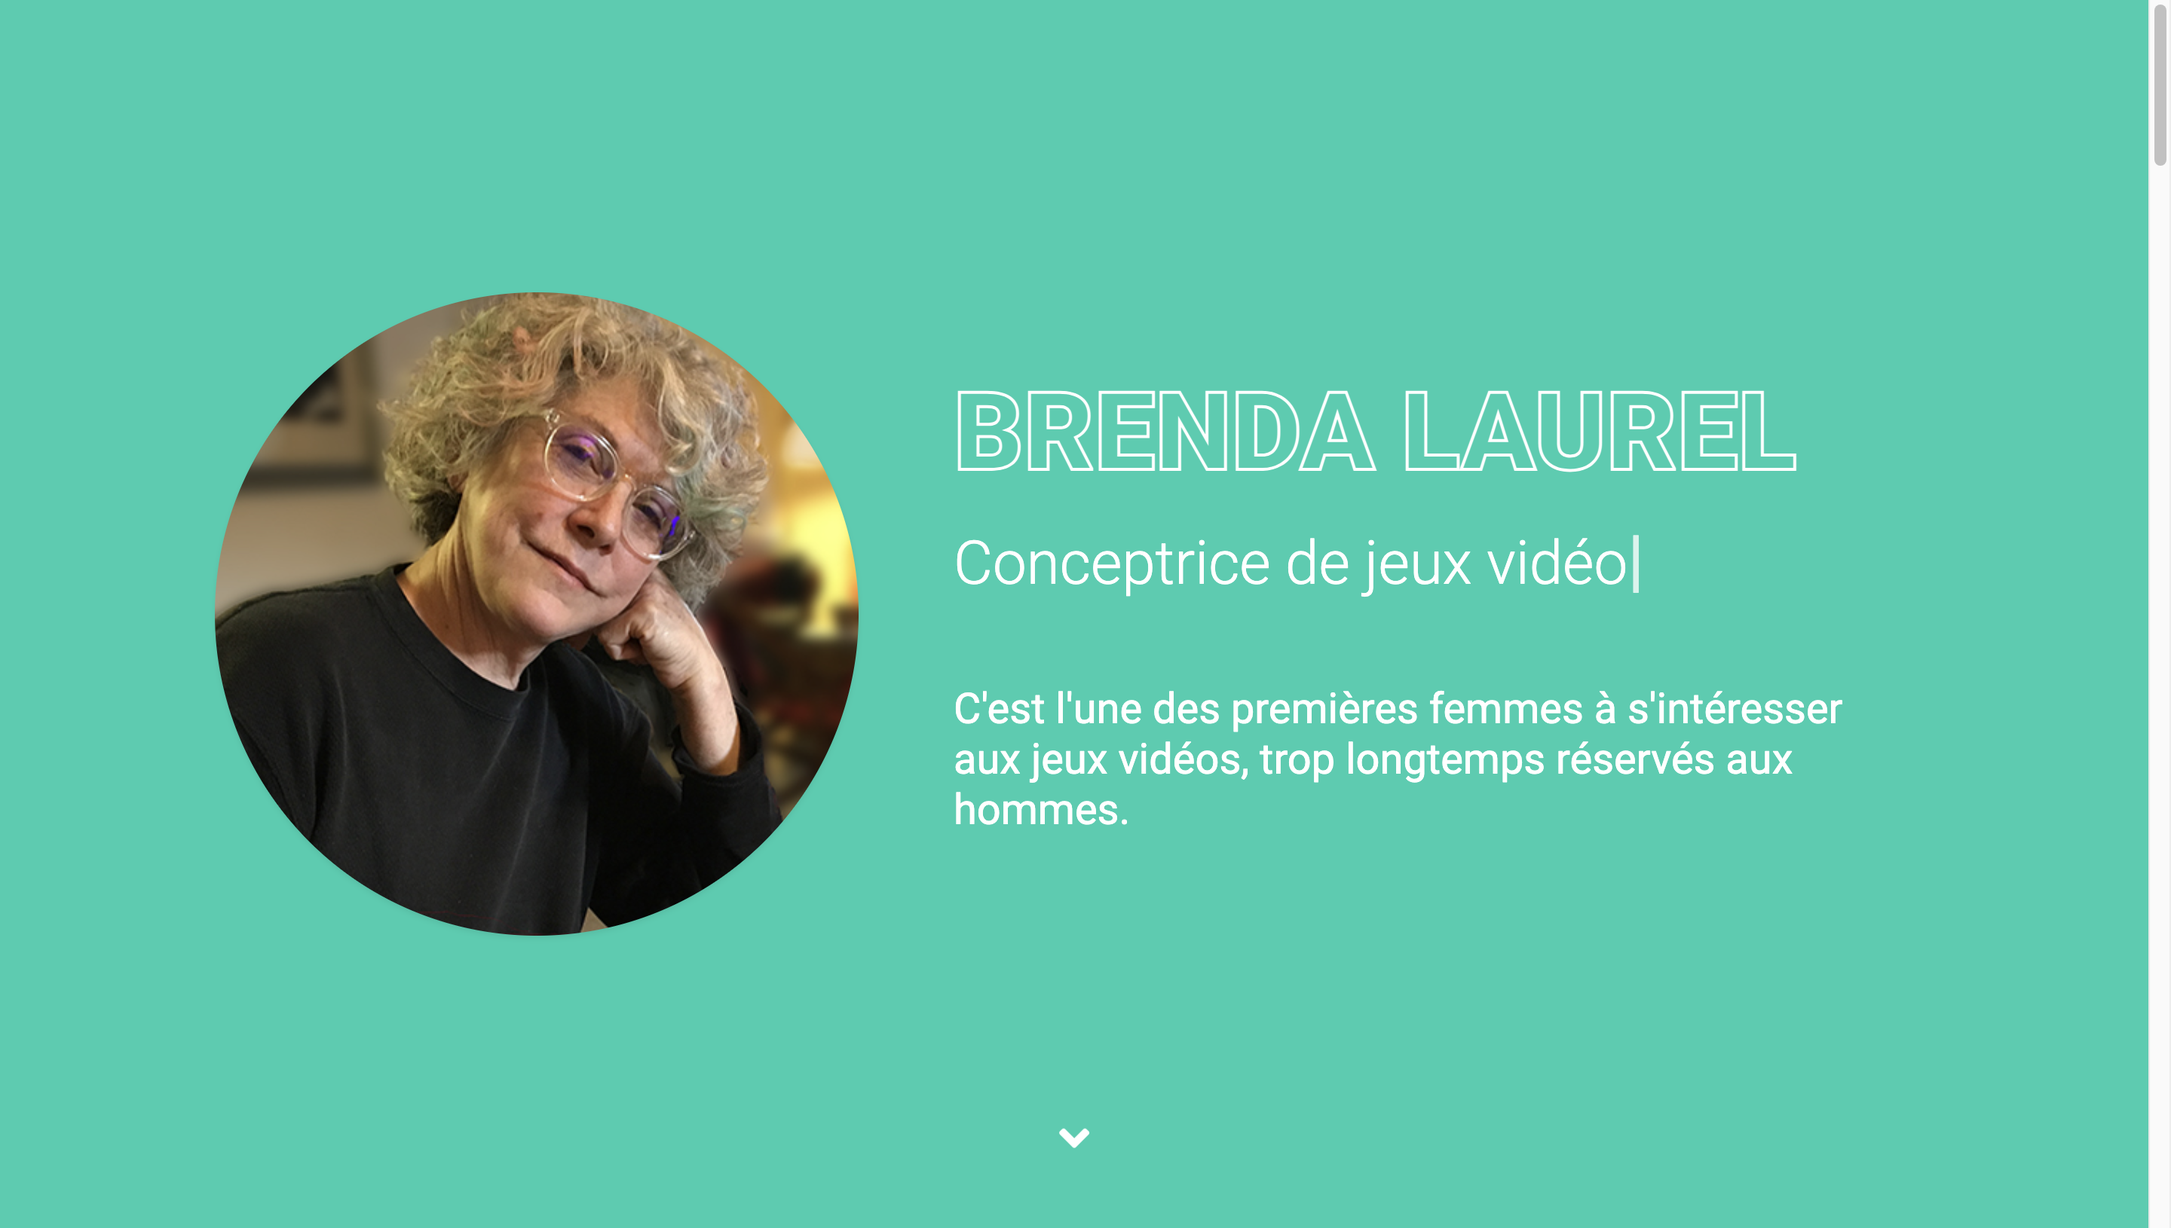
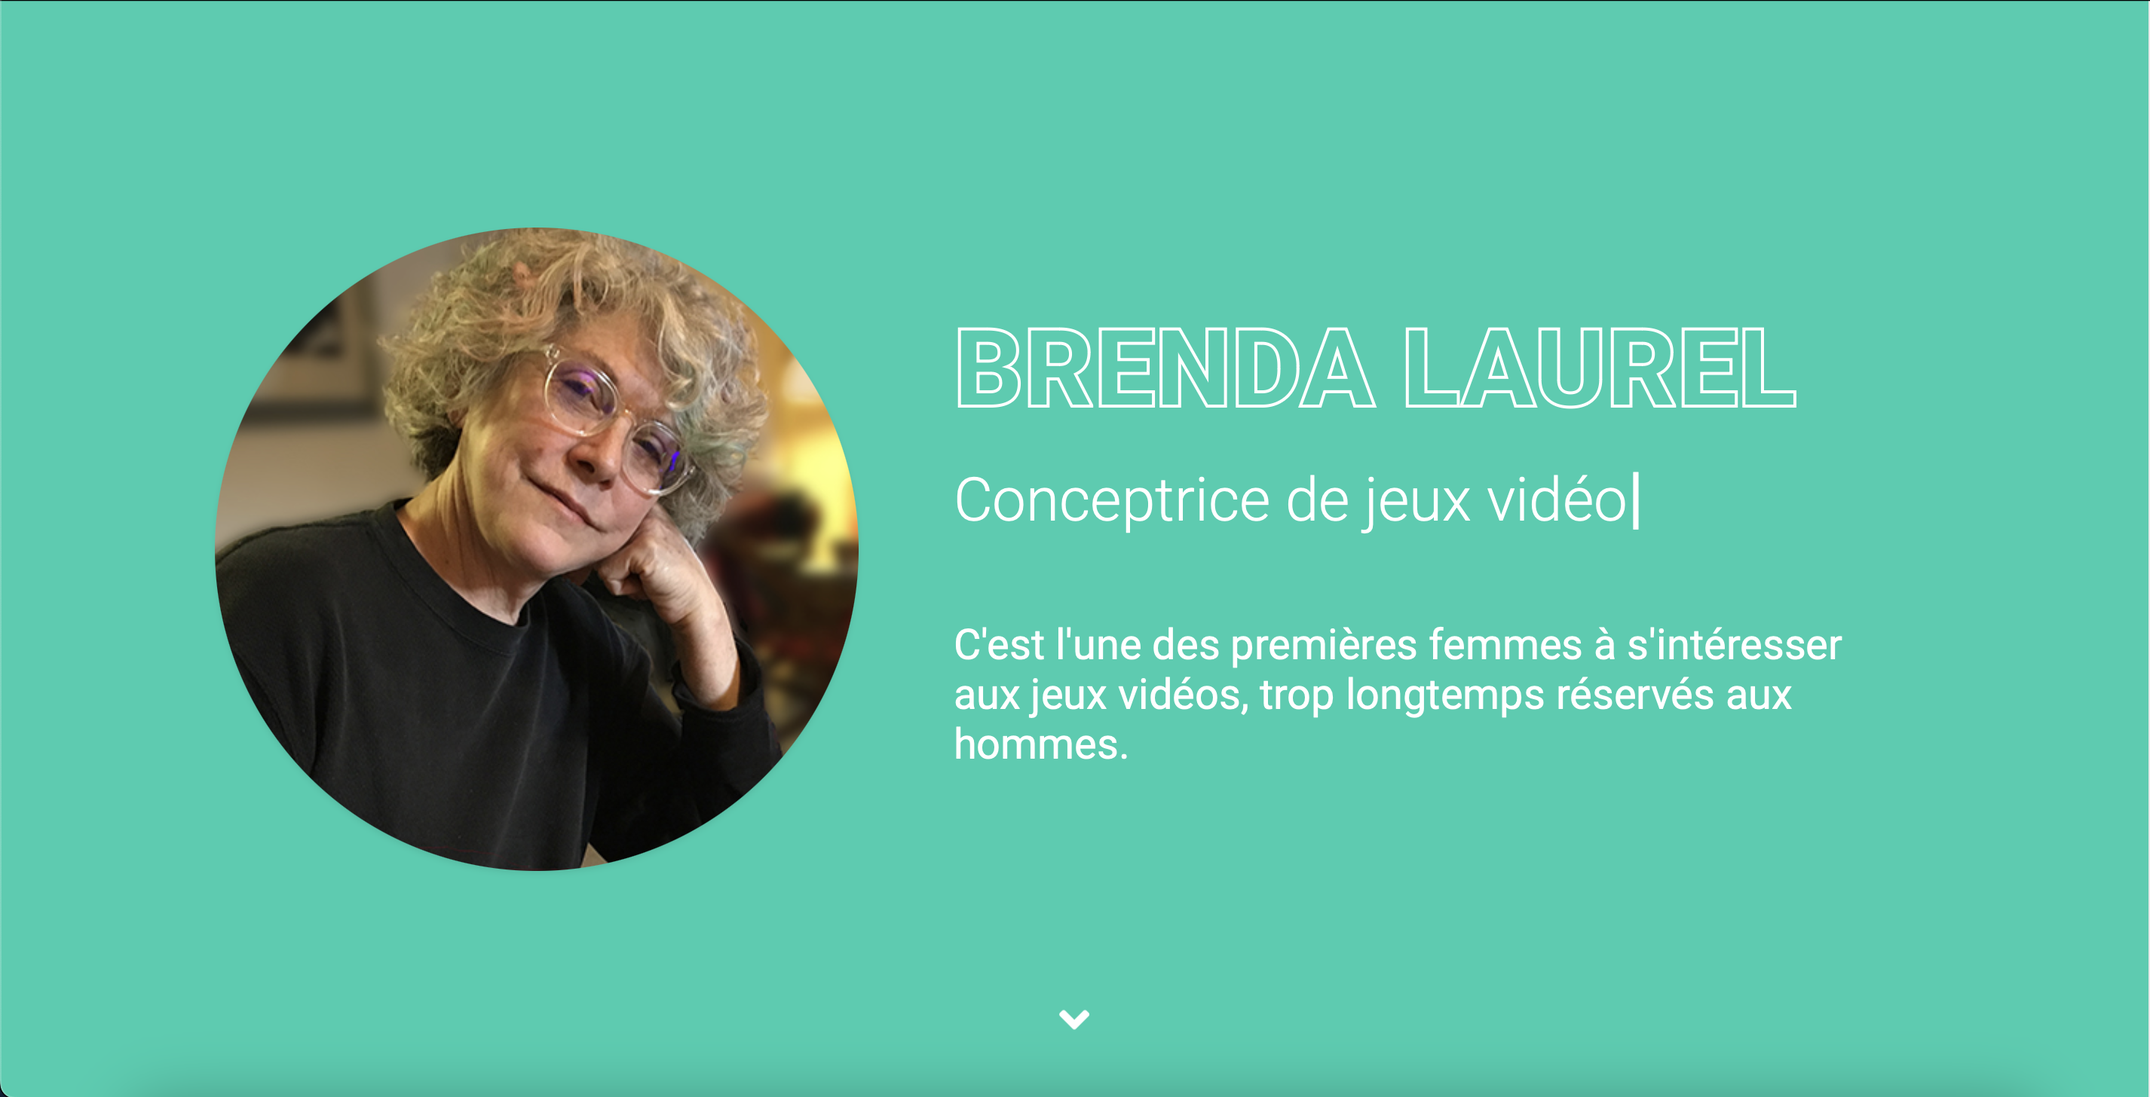
maj

diff --git a/js/typed.min.js b/js/typed.min.js
@@ -1,0 +1,11 @@
+/*!
+ * 
+ *   typed.js - A JavaScript Typing Animation Library
+ *   Author: Matt Boldt <me@mattboldt.com>
+ *   Version: v2.0.11
+ *   Url: https://github.com/mattboldt/typed.js
+ *   License(s): MIT
+ * 
+ */
+(function(t,e){"object"==typeof exports&&"object"==typeof module?module.exports=e():"function"==typeof define&&define.amd?define([],e):"object"==typeof exports?exports.Typed=e():t.Typed=e()})(this,function(){return function(t){function e(n){if(s[n])return s[n].exports;var i=s[n]={exports:{},id:n,loaded:!1};return t[n].call(i.exports,i,i.exports,e),i.loaded=!0,i.exports}var s={};return e.m=t,e.c=s,e.p="",e(0)}([function(t,e,s){"use strict";function n(t,e){if(!(t instanceof e))throw new TypeError("Cannot call a class as a function")}Object.defineProperty(e,"__esModule",{value:!0});var i=function(){function t(t,e){for(var s=0;s<e.length;s++){var n=e[s];n.enumerable=n.enumerable||!1,n.configurable=!0,"value"in n&&(n.writable=!0),Object.defineProperty(t,n.key,n)}}return function(e,s,n){return s&&t(e.prototype,s),n&&t(e,n),e}}(),r=s(1),o=s(3),a=function(){function t(e,s){n(this,t),r.initializer.load(this,s,e),this.begin()}return i(t,[{key:"toggle",value:function(){this.pause.status?this.start():this.stop()}},{key:"stop",value:function(){this.typingComplete||this.pause.status||(this.toggleBlinking(!0),this.pause.status=!0,this.options.onStop(this.arrayPos,this))}},{key:"start",value:function(){this.typingComplete||this.pause.status&&(this.pause.status=!1,this.pause.typewrite?this.typewrite(this.pause.curString,this.pause.curStrPos):this.backspace(this.pause.curString,this.pause.curStrPos),this.options.onStart(this.arrayPos,this))}},{key:"destroy",value:function(){this.reset(!1),this.options.onDestroy(this)}},{key:"reset",value:function(){var t=arguments.length<=0||void 0===arguments[0]||arguments[0];clearInterval(this.timeout),this.replaceText(""),this.cursor&&this.cursor.parentNode&&(this.cursor.parentNode.removeChild(this.cursor),this.cursor=null),this.strPos=0,this.arrayPos=0,this.curLoop=0,t&&(this.insertCursor(),this.options.onReset(this),this.begin())}},{key:"begin",value:function(){var t=this;this.options.onBegin(this),this.typingComplete=!1,this.shuffleStringsIfNeeded(this),this.insertCursor(),this.bindInputFocusEvents&&this.bindFocusEvents(),this.timeout=setTimeout(function(){t.currentElContent&&0!==t.currentElContent.length?t.backspace(t.currentElContent,t.currentElContent.length):t.typewrite(t.strings[t.sequence[t.arrayPos]],t.strPos)},this.startDelay)}},{key:"typewrite",value:function(t,e){var s=this;this.fadeOut&&this.el.classList.contains(this.fadeOutClass)&&(this.el.classList.remove(this.fadeOutClass),this.cursor&&this.cursor.classList.remove(this.fadeOutClass));var n=this.humanizer(this.typeSpeed),i=1;return this.pause.status===!0?void this.setPauseStatus(t,e,!0):void(this.timeout=setTimeout(function(){e=o.htmlParser.typeHtmlChars(t,e,s);var n=0,r=t.substr(e);if("^"===r.charAt(0)&&/^\^\d+/.test(r)){var a=1;r=/\d+/.exec(r)[0],a+=r.length,n=parseInt(r),s.temporaryPause=!0,s.options.onTypingPaused(s.arrayPos,s),t=t.substring(0,e)+t.substring(e+a),s.toggleBlinking(!0)}if("`"===r.charAt(0)){for(;"`"!==t.substr(e+i).charAt(0)&&(i++,!(e+i>t.length)););var u=t.substring(0,e),l=t.substring(u.length+1,e+i),c=t.substring(e+i+1);t=u+l+c,i--}s.timeout=setTimeout(function(){s.toggleBlinking(!1),e>=t.length?s.doneTyping(t,e):s.keepTyping(t,e,i),s.temporaryPause&&(s.temporaryPause=!1,s.options.onTypingResumed(s.arrayPos,s))},n)},n))}},{key:"keepTyping",value:function(t,e,s){0===e&&(this.toggleBlinking(!1),this.options.preStringTyped(this.arrayPos,this)),e+=s;var n=t.substr(0,e);this.replaceText(n),this.typewrite(t,e)}},{key:"doneTyping",value:function(t,e){var s=this;this.options.onStringTyped(this.arrayPos,this),this.toggleBlinking(!0),this.arrayPos===this.strings.length-1&&(this.complete(),this.loop===!1||this.curLoop===this.loopCount)||(this.timeout=setTimeout(function(){s.backspace(t,e)},this.backDelay))}},{key:"backspace",value:function(t,e){var s=this;if(this.pause.status===!0)return void this.setPauseStatus(t,e,!0);if(this.fadeOut)return this.initFadeOut();this.toggleBlinking(!1);var n=this.humanizer(this.backSpeed);this.timeout=setTimeout(function(){e=o.htmlParser.backSpaceHtmlChars(t,e,s);var n=t.substr(0,e);if(s.replaceText(n),s.smartBackspace){var i=s.strings[s.arrayPos+1];i&&n===i.substr(0,e)?s.stopNum=e:s.stopNum=0}e>s.stopNum?(e--,s.backspace(t,e)):e<=s.stopNum&&(s.arrayPos++,s.arrayPos===s.strings.length?(s.arrayPos=0,s.options.onLastStringBackspaced(),s.shuffleStringsIfNeeded(),s.begin()):s.typewrite(s.strings[s.sequence[s.arrayPos]],e))},n)}},{key:"complete",value:function(){this.options.onComplete(this),this.loop?this.curLoop++:this.typingComplete=!0}},{key:"setPauseStatus",value:function(t,e,s){this.pause.typewrite=s,this.pause.curString=t,this.pause.curStrPos=e}},{key:"toggleBlinking",value:function(t){this.cursor&&(this.pause.status||this.cursorBlinking!==t&&(this.cursorBlinking=t,t?this.cursor.classList.add("typed-cursor--blink"):this.cursor.classList.remove("typed-cursor--blink")))}},{key:"humanizer",value:function(t){return Math.round(Math.random()*t/2)+t}},{key:"shuffleStringsIfNeeded",value:function(){this.shuffle&&(this.sequence=this.sequence.sort(function(){return Math.random()-.5}))}},{key:"initFadeOut",value:function(){var t=this;return this.el.className+=" "+this.fadeOutClass,this.cursor&&(this.cursor.className+=" "+this.fadeOutClass),setTimeout(function(){t.arrayPos++,t.replaceText(""),t.strings.length>t.arrayPos?t.typewrite(t.strings[t.sequence[t.arrayPos]],0):(t.typewrite(t.strings[0],0),t.arrayPos=0)},this.fadeOutDelay)}},{key:"replaceText",value:function(t){this.attr?this.el.setAttribute(this.attr,t):this.isInput?this.el.value=t:"html"===this.contentType?this.el.innerHTML=t:this.el.textContent=t}},{key:"bindFocusEvents",value:function(){var t=this;this.isInput&&(this.el.addEventListener("focus",function(e){t.stop()}),this.el.addEventListener("blur",function(e){t.el.value&&0!==t.el.value.length||t.start()}))}},{key:"insertCursor",value:function(){this.showCursor&&(this.cursor||(this.cursor=document.createElement("span"),this.cursor.className="typed-cursor",this.cursor.innerHTML=this.cursorChar,this.el.parentNode&&this.el.parentNode.insertBefore(this.cursor,this.el.nextSibling)))}}]),t}();e["default"]=a,t.exports=e["default"]},function(t,e,s){"use strict";function n(t){return t&&t.__esModule?t:{"default":t}}function i(t,e){if(!(t instanceof e))throw new TypeError("Cannot call a class as a function")}Object.defineProperty(e,"__esModule",{value:!0});var r=Object.assign||function(t){for(var e=1;e<arguments.length;e++){var s=arguments[e];for(var n in s)Object.prototype.hasOwnProperty.call(s,n)&&(t[n]=s[n])}return t},o=function(){function t(t,e){for(var s=0;s<e.length;s++){var n=e[s];n.enumerable=n.enumerable||!1,n.configurable=!0,"value"in n&&(n.writable=!0),Object.defineProperty(t,n.key,n)}}return function(e,s,n){return s&&t(e.prototype,s),n&&t(e,n),e}}(),a=s(2),u=n(a),l=function(){function t(){i(this,t)}return o(t,[{key:"load",value:function(t,e,s){if("string"==typeof s?t.el=document.querySelector(s):t.el=s,t.options=r({},u["default"],e),t.isInput="input"===t.el.tagName.toLowerCase(),t.attr=t.options.attr,t.bindInputFocusEvents=t.options.bindInputFocusEvents,t.showCursor=!t.isInput&&t.options.showCursor,t.cursorChar=t.options.cursorChar,t.cursorBlinking=!0,t.elContent=t.attr?t.el.getAttribute(t.attr):t.el.textContent,t.contentType=t.options.contentType,t.typeSpeed=t.options.typeSpeed,t.startDelay=t.options.startDelay,t.backSpeed=t.options.backSpeed,t.smartBackspace=t.options.smartBackspace,t.backDelay=t.options.backDelay,t.fadeOut=t.options.fadeOut,t.fadeOutClass=t.options.fadeOutClass,t.fadeOutDelay=t.options.fadeOutDelay,t.isPaused=!1,t.strings=t.options.strings.map(function(t){return t.trim()}),"string"==typeof t.options.stringsElement?t.stringsElement=document.querySelector(t.options.stringsElement):t.stringsElement=t.options.stringsElement,t.stringsElement){t.strings=[],t.stringsElement.style.display="none";var n=Array.prototype.slice.apply(t.stringsElement.children),i=n.length;if(i)for(var o=0;o<i;o+=1){var a=n[o];t.strings.push(a.innerHTML.trim())}}t.strPos=0,t.arrayPos=0,t.stopNum=0,t.loop=t.options.loop,t.loopCount=t.options.loopCount,t.curLoop=0,t.shuffle=t.options.shuffle,t.sequence=[],t.pause={status:!1,typewrite:!0,curString:"",curStrPos:0},t.typingComplete=!1;for(var o in t.strings)t.sequence[o]=o;t.currentElContent=this.getCurrentElContent(t),t.autoInsertCss=t.options.autoInsertCss,this.appendAnimationCss(t)}},{key:"getCurrentElContent",value:function(t){var e="";return e=t.attr?t.el.getAttribute(t.attr):t.isInput?t.el.value:"html"===t.contentType?t.el.innerHTML:t.el.textContent}},{key:"appendAnimationCss",value:function(t){var e="data-typed-js-css";if(t.autoInsertCss&&(t.showCursor||t.fadeOut)&&!document.querySelector("["+e+"]")){var s=document.createElement("style");s.type="text/css",s.setAttribute(e,!0);var n="";t.showCursor&&(n+="\n        .typed-cursor{\n          opacity: 1;\n        }\n        .typed-cursor.typed-cursor--blink{\n          animation: typedjsBlink 0.7s infinite;\n          -webkit-animation: typedjsBlink 0.7s infinite;\n                  animation: typedjsBlink 0.7s infinite;\n        }\n        @keyframes typedjsBlink{\n          50% { opacity: 0.0; }\n        }\n        @-webkit-keyframes typedjsBlink{\n          0% { opacity: 1; }\n          50% { opacity: 0.0; }\n          100% { opacity: 1; }\n        }\n      "),t.fadeOut&&(n+="\n        .typed-fade-out{\n          opacity: 0;\n          transition: opacity .25s;\n        }\n        .typed-cursor.typed-cursor--blink.typed-fade-out{\n          -webkit-animation: 0;\n          animation: 0;\n        }\n      "),0!==s.length&&(s.innerHTML=n,document.body.appendChild(s))}}}]),t}();e["default"]=l;var c=new l;e.initializer=c},function(t,e){"use strict";Object.defineProperty(e,"__esModule",{value:!0});var s={strings:["These are the default values...","You know what you should do?","Use your own!","Have a great day!"],stringsElement:null,typeSpeed:0,startDelay:0,backSpeed:0,smartBackspace:!0,shuffle:!1,backDelay:700,fadeOut:!1,fadeOutClass:"typed-fade-out",fadeOutDelay:500,loop:!1,loopCount:1/0,showCursor:!0,cursorChar:"|",autoInsertCss:!0,attr:null,bindInputFocusEvents:!1,contentType:"html",onBegin:function(t){},onComplete:function(t){},preStringTyped:function(t,e){},onStringTyped:function(t,e){},onLastStringBackspaced:function(t){},onTypingPaused:function(t,e){},onTypingResumed:function(t,e){},onReset:function(t){},onStop:function(t,e){},onStart:function(t,e){},onDestroy:function(t){}};e["default"]=s,t.exports=e["default"]},function(t,e){"use strict";function s(t,e){if(!(t instanceof e))throw new TypeError("Cannot call a class as a function")}Object.defineProperty(e,"__esModule",{value:!0});var n=function(){function t(t,e){for(var s=0;s<e.length;s++){var n=e[s];n.enumerable=n.enumerable||!1,n.configurable=!0,"value"in n&&(n.writable=!0),Object.defineProperty(t,n.key,n)}}return function(e,s,n){return s&&t(e.prototype,s),n&&t(e,n),e}}(),i=function(){function t(){s(this,t)}return n(t,[{key:"typeHtmlChars",value:function(t,e,s){if("html"!==s.contentType)return e;var n=t.substr(e).charAt(0);if("<"===n||"&"===n){var i="";for(i="<"===n?">":";";t.substr(e+1).charAt(0)!==i&&(e++,!(e+1>t.length)););e++}return e}},{key:"backSpaceHtmlChars",value:function(t,e,s){if("html"!==s.contentType)return e;var n=t.substr(e).charAt(0);if(">"===n||";"===n){var i="";for(i=">"===n?"<":"&";t.substr(e-1).charAt(0)!==i&&(e--,!(e<0)););e--}return e}}]),t}();e["default"]=i;var r=new i;e.htmlParser=r}])});
+//# sourceMappingURL=typed.min.js.map

diff --git a/index.html b/index.html
@@ -59,39 +59,19 @@
 					<div class='transition-mask' ></div>
 					
 					
-			 		<div class='front-person-img' >
-						
+                    <div class="entete">
 						<!--person's image-->
-						<img src="img/pro%20sourire.JPG" alt="" >
-						<!--/person's image-->
-						
-					</div>
-					
-					<!--person's titles-->
-					<div class='front-person-titles' >
-						
-						<!--title1-->
-						<span class='t1' >
-				        Agent d'accueil
-						</span>
-						<!--/title1-->
-						
-						<!--title2-->
-						<span class='t2' >
-							Pizzaïolo
-						</span>
-						<!--/title2-->
-						
-						<!--title3-->
-						<span class='t3' >
-                        Étudiant
-						</span>
-						<!--/title3-->
-						
-					</div>
-					<!--/person's titles-->
-					
-					<nav class='front-person-links' >
+						<div class="entete-img">
+                            <img src="img/pro%20sourire.JPG" alt="" >
+                        </div>
+                        
+                        <div class="entete-text">
+                            <div>
+                                <h1 class="typed-text-output d-inline font-weight-lighter text-white"></h1>
+                                <div class="typed-text d-none">Agent d'accueil, Pizzaïolo, Étudiant</div>
+                                </div>
+                           
+                            <nav class='front-person-links' >
 						
 						<!--
 							navigation links, data-section attribute points towards the section with id to be opened. 
@@ -118,6 +98,8 @@
 						</ul>
 						
 					</nav>
+                        </div>
+                    </div>
 					
 					
 					
@@ -126,14 +108,8 @@
 						<h2>
 							GRATIA Clément
 						</h2>
-						
-					
-						
 					</div>
-					
-					
 				</div>
-				
 			</section>
 			<!--=============================================================================
 				/Front Section
@@ -550,20 +526,20 @@
 									<a href='#' data-group='all' class='active' >Tout</a>
 								</li>
 								<li>
-									<a href='#' data-group='web' >Scolaire</a>
+									<a href='#' data-group='scolaire' >Scolaire</a>
 								</li>
 								<li>
-									<a href='#' data-group='tech' >Extra-Scolaire</a>
+									<a href='#' data-group='extra' >Extra-Scolaire</a>
 								</li>
 								<li>
-									<a href='#' data-group='photography' >Loisirs</a>
+									<a href='#' data-group='loisirs' >Loisirs</a>
 								</li>
 							</ul>
 						</div>
 						
 						<div id='portfolio-grid' class='portfolio-items' >
 							
-							<div class='item' data-groups='["all","web","photography"]' >
+							<div class='item' data-groups='["all","scolaire"]' >
 								<div class='inner' >
 									
 									<img src='img/portfolio/Infographie_M%C3%A9t%C3%A9o.jpg' alt="">
@@ -593,7 +569,7 @@
 								</div>
 							</div>
 							
-							<div class='item' data-groups='["all","photography","tech"]' >
+							<div class='item' data-groups='["all","scolaire"]' >
 								<div class='inner' >
 									
 									<img alt='symp' src='img/portfolio/brenda2.png' >
@@ -602,7 +578,7 @@
 										
 										<div class='caption-inner' >
 										
-											<h4>Site Web sur Brenda Laurel</h4>
+											<h4>Site Web en HTML</h4>
 											
 											<ul class='links' >
 												
@@ -628,7 +604,7 @@
 								</div>
 							</div>
 							
-							<div class='item' data-groups='["all","web","tech"]' >
+							<div class='item' data-groups='["all","scolaire"]' >
 								<div class='inner' >
 									
 									<img alt='symp' src='img/portfolio/sparql-logo-scaled.jpg' >
@@ -663,7 +639,7 @@
 								</div>
 							</div>
 							
-							<div class='item' data-groups='["all","web"]' >
+							<div class='item' data-groups='["all","scolaire"]' >
 								<div class='inner' >
 									
 									<img alt='symp' src='img/sitecuisi.jpeg' >
@@ -698,7 +674,7 @@
 								</div>
 							</div>
 							
-							<div class='item' data-groups='["all","tech"]' >
+							<div class='item' data-groups='["all","scolaire"]' >
 								<div class='inner' >
 									
 									<img alt='symp' src='img/1er%20page.png' >
@@ -1259,6 +1235,7 @@
 		===============================================================================-->
 		<script src='js/jquery.min.js' ></script>
 		<script src='js/jquery.stellar.min.js' ></script>
+        <script src="js/typed.min.js"></script>
 		<script src='js/modernizr.js' ></script>
 		<script src='js/owl.carousel.min.js' ></script>
 		<script src='js/jquery.shuffle.min.js' ></script>

diff --git a/css/style.css b/css/style.css
@@ -435,6 +435,25 @@ body.section-show .transition-mask:before{
 }
 
 
+.entete{
+    display: flex;
+    gap:10px;
+}
+.entete-img{
+    max-width: 50%;
+}
+.entete-img img{
+     border-radius: 10px;   
+}
+.entete-text{
+    display: flex;
+    flex-direction: column;
+    justify-content: space-around;
+}
+.entete nav>ul>li{
+    list-style: none;
+}
+
 
 .front-section{
 	padding-top:60px;
@@ -468,26 +487,7 @@ body.section-show .transition-mask:before{
 	background:#F0F0F0;
 	position:relative;
 	z-index:15;
-	-webkit-transition:height .5s .3s ease, transform .5s .8s ease;
-	-moz-transition:height .5s .3s ease, transform .5s .8s ease;
-	transition:height .5s .3s ease, transform .5s .8s ease;
-	margin:200px auto;
-	margin-bottom:0;
-	-webkit-transform:rotate(45deg);
-	-moz-transform:rotate(45deg);
-	-ms-transform:rotate(45deg);
-	-o-transform:rotate(45deg);
-	transform:rotate(45deg);
 	border-radius:0;
-}
-.front-person-img > img{
-	max-width:100%;
-	vertical-align:bottom;
-	-webkit-transform:rotate(-45deg) translateY(40px);
-	-moz-transform:rotate(-45deg) translateY(40px);
-	-ms-transform:rotate(-45deg) translateY(40px);
-	-o-transform:rotate(-45deg) translateY(40px);
-	transform:rotate(-45deg) translateY(40px);
 }
 
 .front-person-titles{
@@ -557,6 +557,7 @@ body.section-show .transition-mask:before{
 
 
 .front-person-links{
+    /*
 	margin:auto;
 	width:550px;
 	height:500px;
@@ -568,6 +569,7 @@ body.section-show .transition-mask:before{
 	-o-transform: rotate(45deg);
 	transform: rotate(45deg);
 	position:relative;
+    */
 }
 
 .front-person-links > ul > li{
@@ -576,7 +578,7 @@ body.section-show .transition-mask:before{
 .front-person-links > ul{
 	font-size:0;
 	z-index:99;
-	position:absolute;
+	/*position:absolute;
 	text-align:left;
 	white-space:nowrap;
 	left:100%;
@@ -590,6 +592,7 @@ body.section-show .transition-mask:before{
 	padding:0;
 	list-style:none;
 	margin-left:-15px;
+    */
 }
 .front-person-links > ul > li > a{
 	font-weight:bold;
@@ -1513,6 +1516,7 @@ body .symp-btn{
 }
 .portfolio-items > .item > .inner{
 	position:relative;
+    padding: 5px;
 }
 .portfolio-items > .item > .inner > .caption{
 	position:absolute;

diff --git a/js/script.js b/js/script.js
@@ -1,5 +1,18 @@
 $(function(){
 	"use strict";
+    
+     // Typed Initiate
+    if ($('.typed-text-output').length == 1) {
+        var typed_strings = $('.typed-text').text();
+        var typed = new Typed('.typed-text-output', {
+            strings: typed_strings.split(', '),
+            typeSpeed: 100,
+            backSpeed: 20,
+            smartBackspace: false,
+            loop: true
+        });
+    
+    }
 
 	/*=========================================================================
 		Initializing stellar.js Plugin
@@ -176,3 +189,6 @@ $(function(){
 	
 	
 });
+
+
+   
